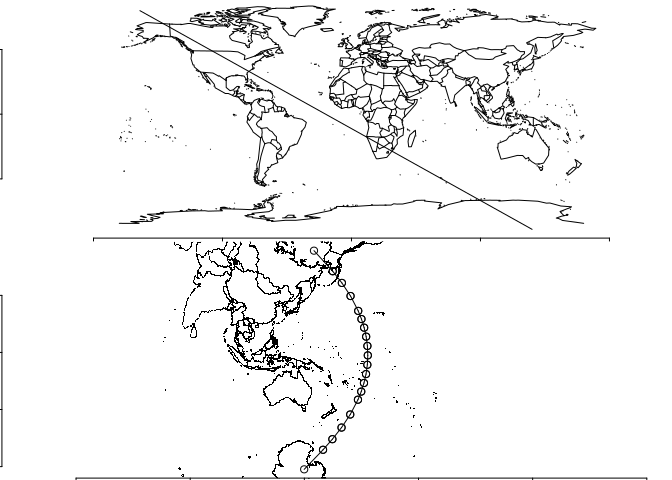
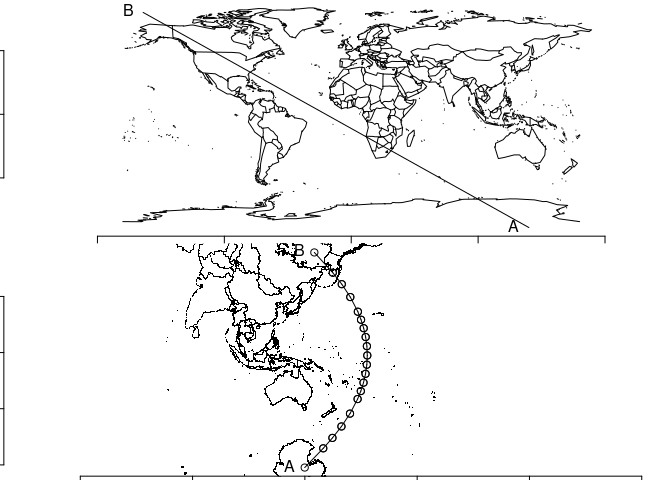
more readme

diff --git a/README.md b/README.md
@@ -40,8 +40,8 @@ s <- segment(c(140, -164), c(-89, 80))
 #crs <- laea(runif(1, -180, 180), runif(1, -90, 90))
 #crs <- "+proj=omerc +lon_0=147 +lonc = 180 +gamma=10 +lat_0=-42"
 crs <- "+proj=tmerc +lon_0=147 +lat_0=-42"
-par(mfrow = c(2, 1), mar = rep(0.1, 4))
-plot(s);maps::map(add = T);axis(1);axis(2)
+op <- par(mfrow = c(2, 1), mar = rep(0.2, 4))
+plot(s);maps::map(add = T);axis(1);axis(2); text(s[[1]], lab = c("A", "B"), pos = 2)
 plot(ss <- sf::st_transform(bigcurve:::bisect(s, crs, dist = 3e4), crs))
 xy <- do.call(cbind, maps::map(plot = FALSE)[1:2])
 points(sf::sf_project("OGC:CRS84", crs, xy), pch = ".")
@@ -49,9 +49,30 @@ points(sf::sf_project("OGC:CRS84", crs, xy), pch = ".")
 #> authority_compliant): one or more projected point(s) not finite
 axis(1);axis(2)
 points(sf::st_coordinates(ss)[, c("X", "Y")])
+text(sf::st_coordinates(ss)[c(1, length(ss) * 2), c("X", "Y")], c("A", "B"), pos = 2)
 ```
 
 <img src="man/figures/README-example-1.png" width="100%" />
+
+``` r
+par(op)
+```
+
+If we take that same path (A to B, shortest distance) in a different
+projection we get the *same path* but at different locations, because
+the curvature is a different situation here.
+
+``` r
+crs2 <- "+proj=stere +lon_0=180 +lat_0=20"
+plot(ss <- sf::st_transform(bigcurve:::bisect(s, crs2, dist = 3e4), crs2))
+xy <- do.call(cbind, maps::map(plot = FALSE)[1:2])
+points(sf::sf_project("OGC:CRS84", crs2, xy), pch = ".")
+axis(1);axis(2)
+points(sf::st_coordinates(ss)[, c("X", "Y")])
+text(sf::st_coordinates(ss)[c(1, length(ss) * 2), c("X", "Y")], c("A", "B"), pos = 2)
+```
+
+<img src="man/figures/README-different-1.png" width="100%" />
 
 The proper source of goodness is here:
 
